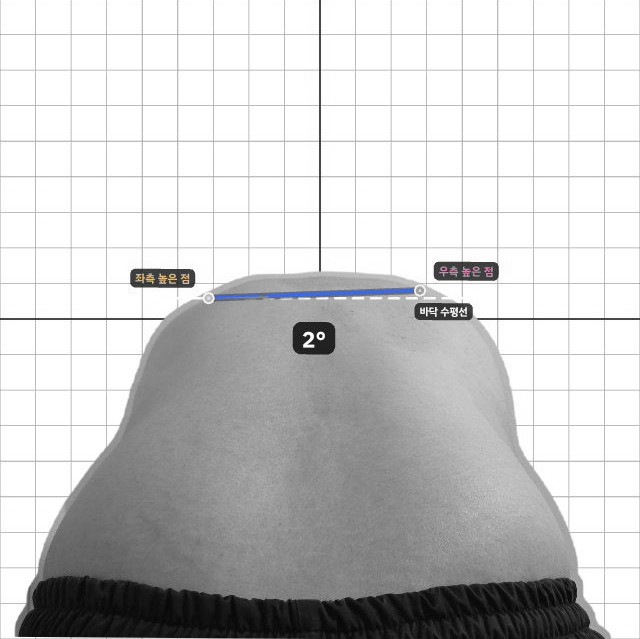
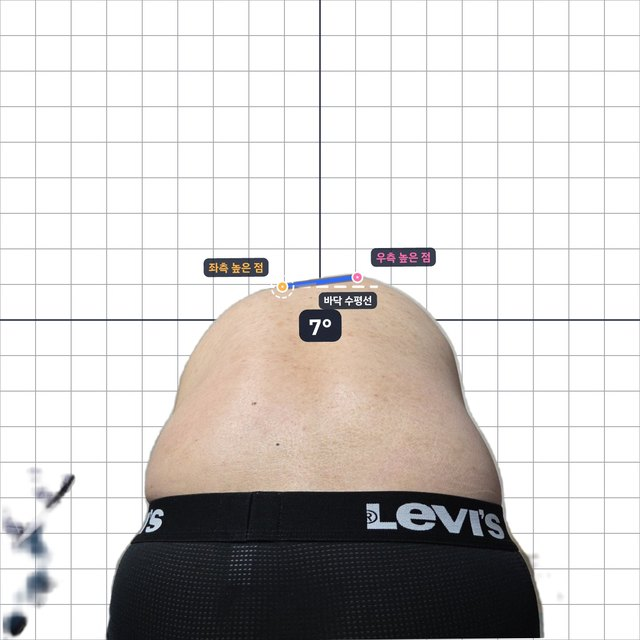
feat: 척추 균형 배경 실루엣·측정가이드 사진 교체 (v284 미출시)
- guide/sil/scol_C_atr_v4.webp: 새 사진에서 배경을 떼어 낸 실루엣(720×720), v3 삭제
- guide/rom/scol_C_atr.jpg: 실제 측정 화면 캡처(회원·센터 이름 머리글은 잘라냄), 주소 ?v=284
- SIL_V 로 사진이 바뀐 실루엣만 파일 번호 관리, sw.js SHELL_FILES 갱신
- CHANGELOG v284(미출시)·TESTING 56·57·BACKLOG(실루엣 크기 결정)

Claude-Session: https://claude.ai/code/session_01PyFQzXUK3gVAPtCoid5yqG

diff --git a/index.html b/index.html
@@ -3819,6 +3819,7 @@
     // v160 팔꿈치·무릎·고관절·발목 18개 항목 추가
     "elbow_L_flex", "elbow_R_flex", "elbow_L_ext", "elbow_R_ext", "knee_L_flex", "knee_R_flex", "knee_L_ext", "knee_R_ext", "hip_L_flex", "hip_R_flex", "hip_L_er", "hip_R_er", "hip_L_ir", "hip_R_ir", "ankle_L_dorsi", "ankle_R_dorsi", "ankle_L_plantar", "ankle_R_plantar",
     "fhp_C_cva", "scol_C_atr"];   // v211 척추 균형(앞으로 숙인 등) 기준 실루엣 · v174 거북목(CVA) 기준 실루엣 — 측면 상반신, C7 높이 촬영 가이드
+  var SIL_V = { scol_C_atr: "v4" };   // v284 사진을 바꾼 실루엣만 파일 번호를 올린다 (나머지는 v3) — 이름이 같으면 폰이 옛 그림을 계속 쓸 수 있어서
   /* v161 항목별 기준 실루엣 크기·위치 조정: s = 크기 배율, dx = 오른쪽 이동(그린 실루엣 폭 대비)
      v187 dy = 아래쪽 이동(음수면 위로). 체형(body_*)은 촬영 화면 높이 대비, ROM은 그린 실루엣 높이 대비 */
   var SIL_ADJ = {
@@ -11521,7 +11522,7 @@
         var fid = "fixed:" + sk, im0 = new Image(); romCam.ghostId = fid;
         im0.onload = function(){ if(romCam.ghostId !== fid) return; romCam.ghost = { w: im0.naturalWidth, h: im0.naturalHeight, rec: null, cv: silStylize(im0), mode: "sil", fixed: true, adj: SIL_ADJ[sk] || null }; romOutlineBtn(); };   // v191
         im0.onerror = function(){ if(romCam.ghostId === fid) romGhostPrepRec(); };
-        im0.src = "guide/sil/" + sk + "_v3.webp";   // v146 얼굴 흐림 + 몸매 보정본
+        im0.src = "guide/sil/" + sk + "_" + (SIL_V[sk] || "v3") + ".webp";   // v146 얼굴 흐림 + 몸매 보정본 · v284 척추 균형은 v4
         return;
       }
     }
@@ -14060,7 +14061,7 @@
     $("ptGuideSub").textContent = "측정점 2개 · 바닥 수평선";
     $("ptGuideBody").innerHTML =
       '<div class="pg-pose"><b>측정 자세</b> · ' + mv.guide + '</div>' +
-      '<div class="pg-pics one"><figure><img src="guide/rom/scol_C_atr.jpg?v=211" alt="척추 균형 측정점 예시" loading="lazy"></figure></div>' +
+      '<div class="pg-pics one"><figure><img src="guide/rom/scol_C_atr.jpg?v=284" alt="척추 균형 측정점 예시" loading="lazy"></figure></div>' +
       '<ul class="pg-list">' +
         '<li><i style="background:#F5A623"></i><b>시작점</b><span>' + esc(G.V) + '</span></li>' +
         '<li><i style="background:#E8508A"></i><b>끝점</b><span>' + esc(G.D) + '</span></li>' +

diff --git a/sw.js b/sw.js
@@ -12,7 +12,7 @@ const SHELL_FILES = ["./", "./index.html", "./manifest.webmanifest", "./js/logic
   // v144 고정 기준 실루엣(v145 얼굴 흐림 · v146 몸매 보정)(체형 정면·측면, 목·허리·어깨 ROM)
   "./guide/sil/body_front_v3.webp", "./guide/sil/body_side_v3.webp", "./guide/sil/neck_C_flex_v3.webp", "./guide/sil/neck_C_ext_v3.webp", "./guide/sil/neck_L_lat_v3.webp", "./guide/sil/neck_R_lat_v3.webp", "./guide/sil/trunk_C_flex_v3.webp", "./guide/sil/trunk_C_ext_v3.webp", "./guide/sil/trunk_L_lat_v3.webp", "./guide/sil/trunk_R_lat_v3.webp", "./guide/sil/shoulder_L_flex_v3.webp", "./guide/sil/shoulder_R_flex_v3.webp", "./guide/sil/shoulder_L_abd_v3.webp", "./guide/sil/shoulder_R_abd_v3.webp", "./guide/sil/shoulder_L_er_v3.webp", "./guide/sil/shoulder_R_er_v3.webp", "./guide/sil/shoulder_L_ir_v3.webp", "./guide/sil/shoulder_R_ir_v3.webp",
   "./guide/sil/elbow_L_flex_v3.webp", "./guide/sil/elbow_R_flex_v3.webp", "./guide/sil/elbow_L_ext_v3.webp", "./guide/sil/elbow_R_ext_v3.webp", "./guide/sil/knee_L_flex_v3.webp", "./guide/sil/knee_R_flex_v3.webp", "./guide/sil/knee_L_ext_v3.webp", "./guide/sil/knee_R_ext_v3.webp", "./guide/sil/hip_L_flex_v3.webp", "./guide/sil/hip_R_flex_v3.webp", "./guide/sil/hip_L_er_v3.webp", "./guide/sil/hip_R_er_v3.webp", "./guide/sil/hip_L_ir_v3.webp", "./guide/sil/hip_R_ir_v3.webp", "./guide/sil/ankle_L_dorsi_v3.webp", "./guide/sil/ankle_R_dorsi_v3.webp", "./guide/sil/ankle_L_plantar_v3.webp", "./guide/sil/ankle_R_plantar_v3.webp",
-  "./guide/sil/fhp_C_cva_v3.webp", "./guide/sil/scol_C_atr_v3.webp", "./guide/rom/scol_C_atr.jpg", "./guide/rom/fhp_C_cva.jpg"];
+  "./guide/sil/fhp_C_cva_v3.webp", "./guide/sil/scol_C_atr_v4.webp", "./guide/rom/scol_C_atr.jpg", "./guide/rom/fhp_C_cva.jpg"];
 
 self.addEventListener("install", (e) => {
   e.waitUntil(caches.open(SHELL).then((c) => c.addAll(SHELL_FILES)).then(() => self.skipWaiting()));

diff --git a/docs/BACKLOG.md b/docs/BACKLOG.md
@@ -15,6 +15,7 @@
 - [ ] '수평 보정' 슬라이더(`romRotSet`)로 기울기를 바꿔도 기준선은 옛 기울기로 남는다 — v281 과 같은 원인의 다른 입구. `romDraw()` 앞에 `romRefRebuild()` 한 줄이면 닫힌다
 - [ ] `romS.refCustom` 이 사실상 죽은 값 — `romRefDir()` 이 `refCustom` 을 보지 않고 `P[0]→P[2]` 만 쓰고, `romPick()` 이 `{t:"ref"}` 를 반환하지 않아 사용자가 설정할 길도 없다. 기준선을 끌어 돌리는 조작·미세조정의 `ref` 분기를 정리하거나 제대로 살리기 (v281 에서 [기준선 되돌리기] 단추는 `refMoved` 로 뜨게 해 둠)
 - [ ] `romSynthA`·`romLearnAdj`·`romRefAuto`/`romRefShift` 를 `js/logic/rom-ref.js` 로 분리 (ADR-011) — 지금은 index.html 문자열을 잘라 테스트한다
+- [ ] 척추 균형 새 실루엣(v284)은 옛것보다 사람이 작게(등 폭 화면의 약 58% ↔ 옛 90%) 찍힌 사진 그대로다 — 회원이 더 멀리 서게 된다. 옛 크기로 맞추려면 `SIL_ADJ.scol_C_atr = { s: 1.5, dy: … }` 한 줄. 원장님이 실제 촬영 거리를 보고 결정
 - [ ] 팔꿈치 **굴곡** 실루엣의 좌·우 가로 폭이 다르다(0.44 ↔ 0.30) — 팔 자세가 다른 사진이라 크기 조정으로 못 맞춘다. 좌측 굴곡 실루엣을 우측과 같은 자세로 다시 찍으면 해결
 - [ ] 팔꿈치 실루엣의 **좌·우 사람 크기가 약 27% 다르다** (머리 폭 0.1426 ↔ 0.1815). 맞추려면 좌측을 1.27배 키우거나 우측을 0.79배 줄여야 하는데, 서는 거리가 달라지고 `s<1` 이면 아래 잘린 단면이 화면 바닥에서 떠 보인다 → 원장님 확인 후 결정. **실루엣 크기를 비교할 때는 그림 테두리(bbox)가 아니라 머리 폭처럼 잘리지 않는 치수로 잴 것**
 - [ ] 팔꿈치 신전의 손목 쪽 여백이 좌 18.0% · 우 23.1% 로 5%p 다르다 — 양쪽 21% 로 맞추려면 `elbow_L_ext dx +0.14`, `elbow_R_ext dx -0.06` (요청하신 '10%' 와는 달라져 그대로 둠)

diff --git a/docs/TESTING.md b/docs/TESTING.md
@@ -75,6 +75,8 @@
 | 53 | (v283) 비운 회차(측정 전)는 상태표에 **빈 칸(–)** 이고 추이 선이 그 자리에서 끊긴다 — 0 이나 다른 값으로 보이지 않는다 | 안드로이드 |
 | 54 | (v283) [리포트 이미지 저장] 1쪽이 **머리글 → 한눈에 보기 → 정면·측면 → 점수** 순서. 글꼴·한글이 화면과 같고, ROM 10항목 이상 회원도 1쪽에 들어간다(조금 축소될 수 있음) | 안드로이드 |
 | 55 | (v283) [공유 링크] 를 만들어 `r.html` 로 열면 같은 1쪽이 보이고 3MB 압축 안내 없이 올라간다 (ROM 12항목 회원으로) | 안드로이드 |
+| 56 | (v284) 측정 → 척추 균형 → 촬영 화면에 **새 실루엣**(등 뒤에서 숙인 등·검은 반바지 윤곽)이 보이고, 앱을 닫았다 열어도 옛 실루엣이 아니다. 비행기 모드에서도 보인다 | 안드로이드 |
+| 57 | (v284) 척추 균형 [측정가이드] 의 예시 사진이 격자·"좌측 높은 점"·"우측 높은 점"·"바닥 수평선"·"7°" 가 있는 새 사진이고, **사진 위에 이름·센터명이 없다** | 안드로이드 |
 
 
 ## 4. 버그를 발견했을 때

diff --git a/docs/CHANGELOG.md b/docs/CHANGELOG.md
@@ -3,6 +3,17 @@
 > 사용자가 읽는 말로 쓴다. 코드 용어 대신 "무엇이 달라졌나". `/ship` 이 맨 위에 새 항목을 추가한다.
 > 형식: `## vNNN — 2026.10.14` 아래에 **추가 / 변경 / 수정 / 제거** 네 묶음.
 
+## v284 — (미출시)
+### 변경
+- **척추 균형 촬영 화면의 배경 실루엣**을 원장님이 주신 새 사진(등 뒤에서 숙인 자세)으로 바꿨습니다. 배경을 자동으로 떼어 내고 사람 부분만 남긴 뒤, 기존 실루엣과 같은 방식(연한 명암 + 윤곽선)으로 보입니다. 서는 위치·크기는 사진 그대로입니다
+- **척추 균형 [측정가이드] 예시 사진**을 실제 측정 화면(격자·좌측/우측 높은 점·바닥 수평선·각도)으로 바꿨습니다. 회원 이름·센터 이름이 있던 머리글은 잘라냈습니다
+### 추가
+- 없음
+### 수정
+- 없음
+### 제거
+- 옛 척추 균형 실루엣 파일(`scol_C_atr_v3.webp`)
+
 ## v283 — 2026.10.16
 ### 추가
 - **리포트 맨 위 "한눈에 보기"** — 회차 선택 바로 아래에 회원에게 보여 주는 요약 카드가 생겼습니다
